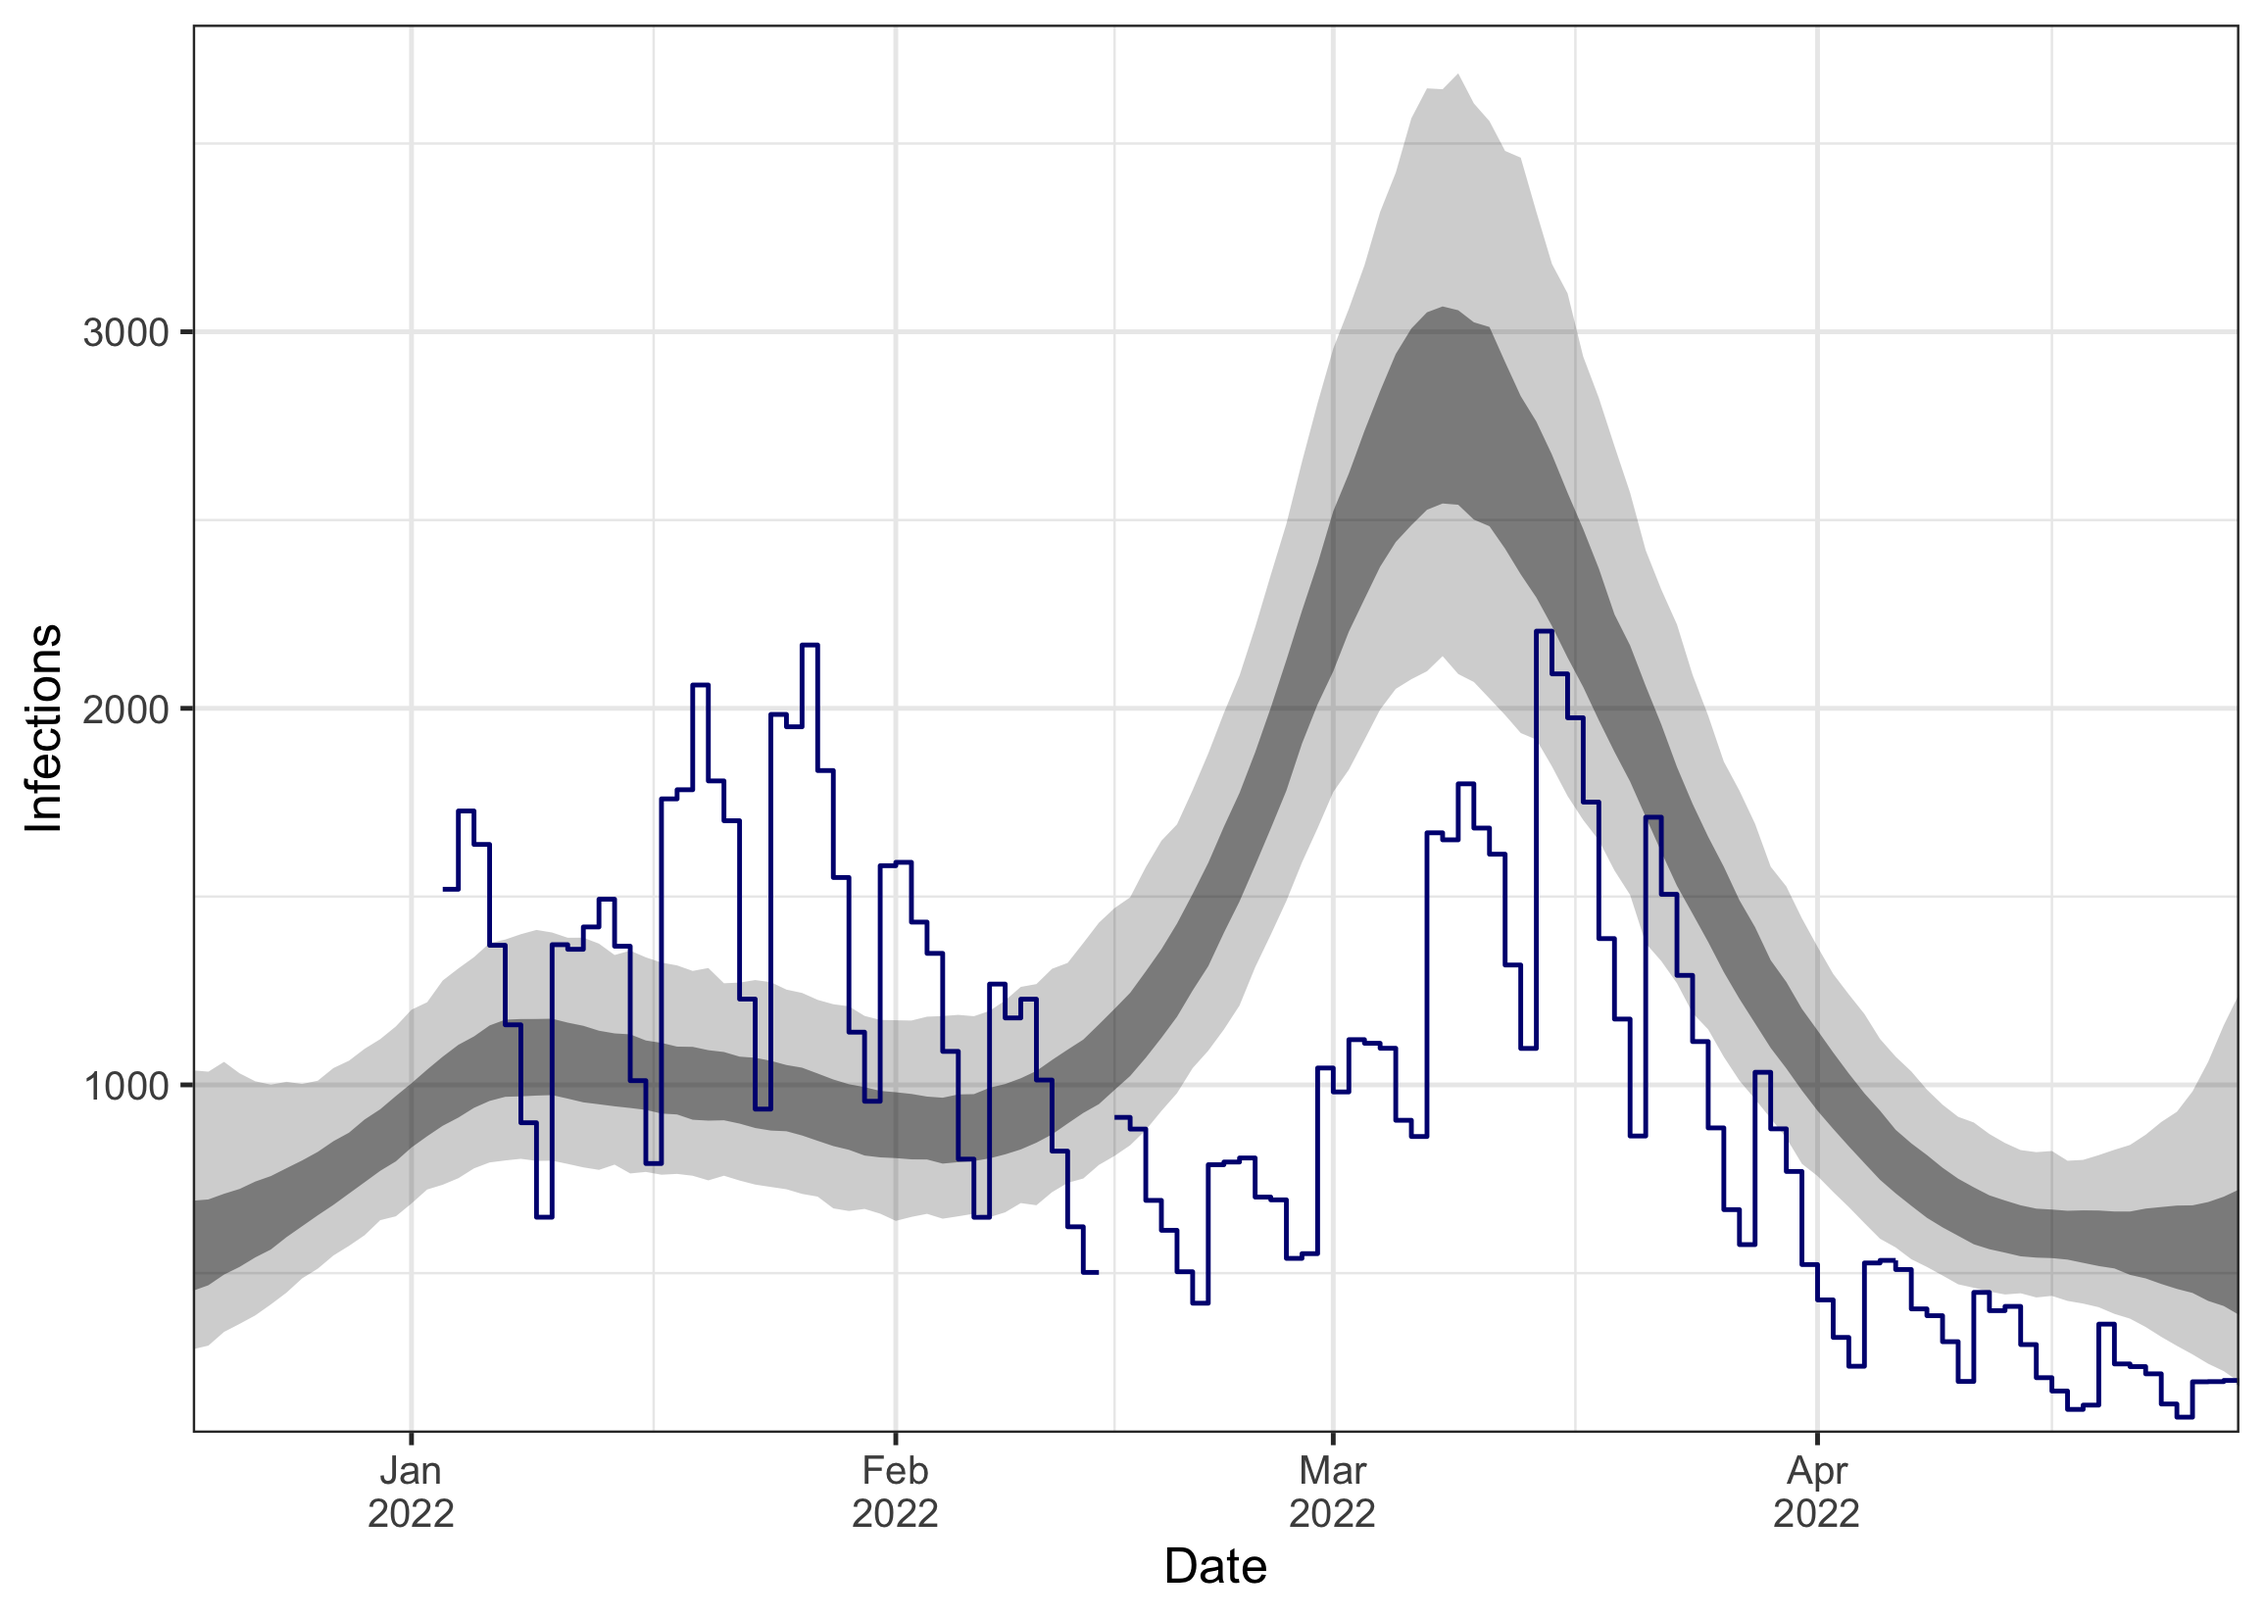
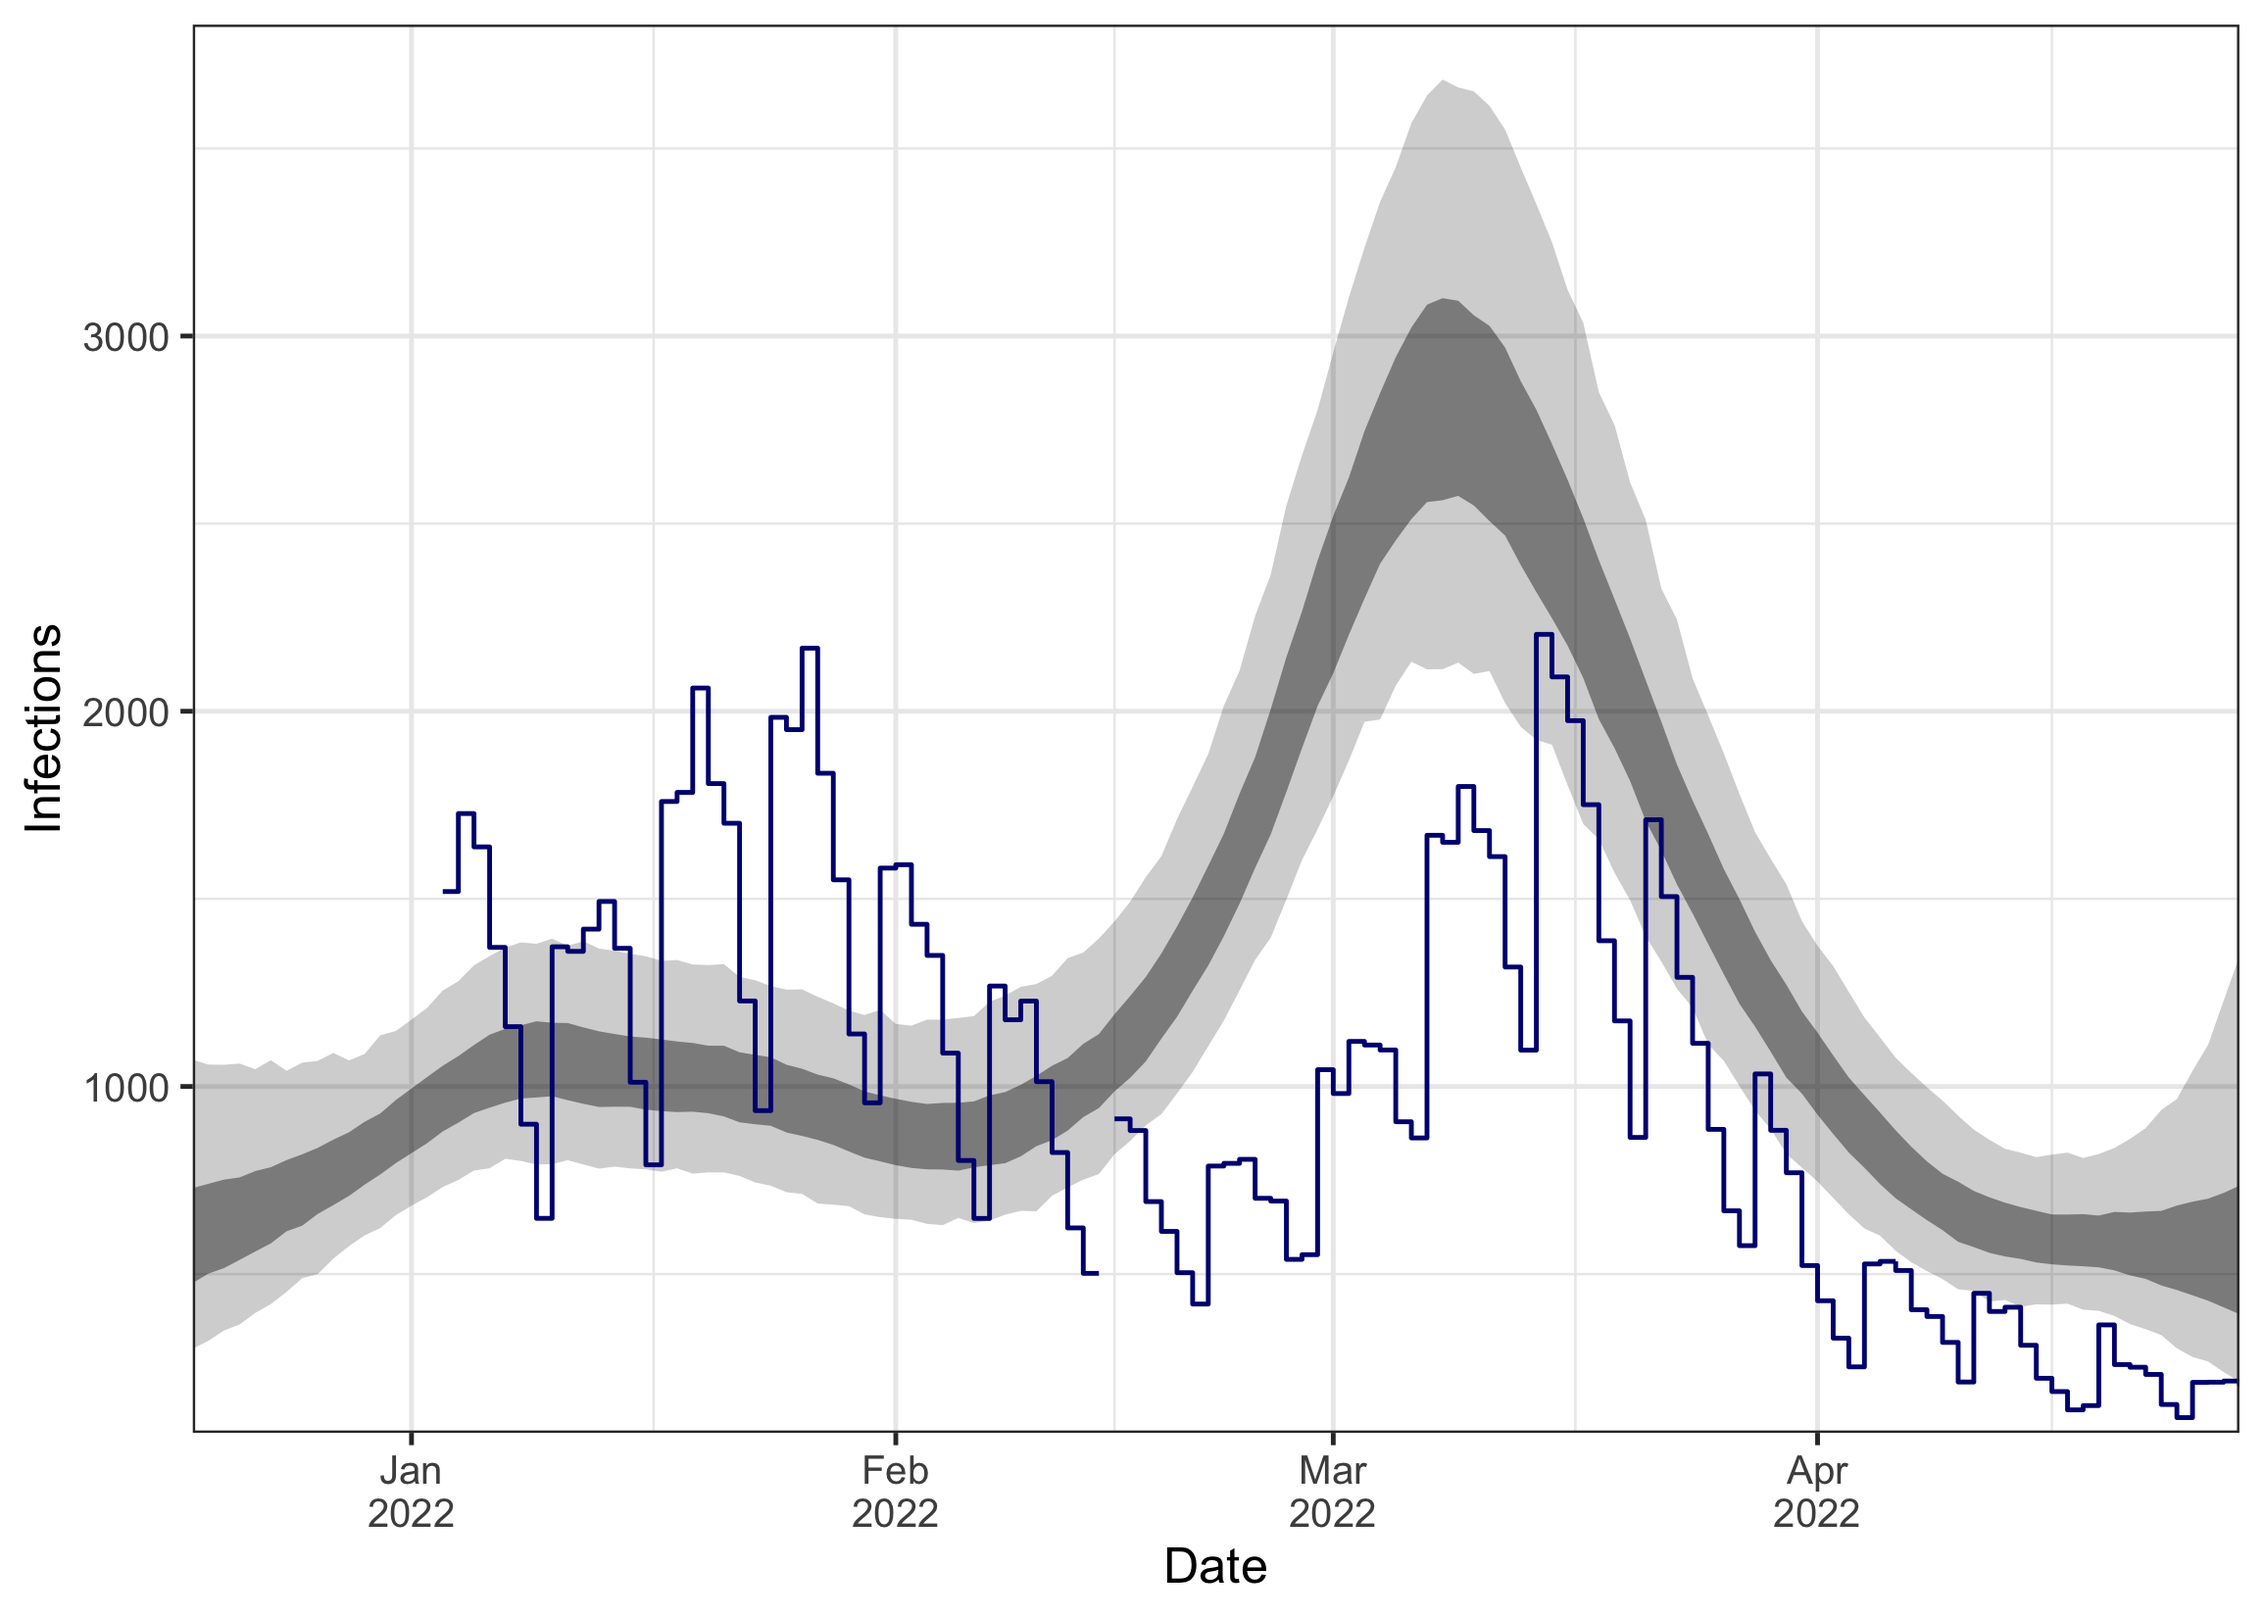
Update README and vignettes

diff --git a/README.md b/README.md
@@ -36,6 +36,7 @@ configurable modeling components.
 ⭐ Limit of detection (LOD) model
 
 **Sampling**  
+⭐ Integrated outlier detection  
 ⭐ Sample batch effects (e.g. weekday or age-of-sample effects)
 
 **Sewer**  
@@ -502,6 +503,7 @@ ww_result$job$model
 #>  |- LOD_none
 #> 
 #> sampling
+#>  |- outliers_none
 #>  |- sample_effects_none
 #> 
 #> sewage
@@ -547,11 +549,11 @@ number.
 ``` r
 head(ww_result$summary$R, 5)
 #>          date     mean   median lower_0.95 lower_0.5 upper_0.5 upper_0.95
-#> 1: 2021-12-03 1.042238 1.044795  0.7012397 0.9294330  1.157058   1.365061
-#> 2: 2021-12-04 1.043177 1.044975  0.7155260 0.9338175  1.155830   1.355124
-#> 3: 2021-12-05 1.044297 1.045450  0.7303710 0.9367903  1.154685   1.346828
-#> 4: 2021-12-06 1.045626 1.045795  0.7430955 0.9419335  1.152473   1.342926
-#> 5: 2021-12-07 1.047189 1.046505  0.7521539 0.9480593  1.147990   1.336999
+#> 1: 2021-12-03 1.036807 1.035745  0.6965128 0.9325218  1.135077   1.380163
+#> 2: 2021-12-04 1.037644 1.036200  0.7072554 0.9352365  1.131915   1.375141
+#> 3: 2021-12-05 1.038698 1.035635  0.7225687 0.9409083  1.130870   1.360814
+#> 4: 2021-12-06 1.039966 1.037090  0.7374740 0.9479347  1.126985   1.354385
+#> 5: 2021-12-07 1.041443 1.038955  0.7485678 0.9517000  1.126372   1.344230
 #>        type seeding
 #> 1: estimate    TRUE
 #> 2: estimate    TRUE
@@ -575,7 +577,7 @@ ww_result$fitted$diagnostic_summary()
 #> [1] 0 0 0 0
 #> 
 #> $ebfmi
-#> [1] 0.9014503 0.9680378 0.9334176 0.9486877
+#> [1] 0.9634045 0.9527539 1.0770535 1.0579167
 ```
 
 Finally, the `checksums` attribute gives us several checksums that
@@ -587,10 +589,10 @@ is not `NULL`), then the results should also be identical.
 ``` r
 ww_result$checksums
 #> $model
-#> [1] "6346549bd7c2ac9a9d200503d7356a29"
+#> [1] "9ab6b8f9db0836e27cf9e9ac6ab1ea02"
 #> 
 #> $input
-#> [1] "c6dad2f8ed2b6fdaf952926f3eb3e97d"
+#> [1] "c5d9acd8e8877d4ffbb24019996c07f9"
 #> 
 #> $fit_opts
 #> [1] "5309bbbc3cd1cc109eac60d2fc82de45"
@@ -599,7 +601,7 @@ ww_result$checksums
 #> [1] "e92f83d0ca5d22b3bb5849d62c5412ee"
 #> 
 #> $init
-#> [1] "82126b86311c9716bda5d21c04c52142"
+#> [1] "4329118480e9cb86b22d61c739d8c77e"
 ```
 
 ## Citing the package

diff --git a/vignettes/detailed-example.md b/vignettes/detailed-example.md
@@ -155,15 +155,18 @@ the wastewater:
 
 ``` r
 ww_sampling <- model_sampling(
+  outliers = outliers_none(),
   sample_effects = sample_effects_none()
 )
 ```
 
-The sampling module currently has only one component, which allows to
-model the effects of sample characteristics (like time from sampling
-until processing, which can lead to degradation) on the detectable
-pathogen concentrations. In this simple example, we do not model such
-effects.
+The sampling module currently has two component. The outlier component
+allows to automatically detect outlier observations during model
+fitting, making transmission dynamic estimates more robust. The sample
+effects component allows to model the effects of sample characteristics
+(like time from sampling until processing, which can lead to
+degradation) on the detectable pathogen concentrations. In this simple
+example, we do not model outliers or sampling effects.
 
 #### Sewage
 
@@ -384,6 +387,7 @@ ww_result$job$model
 #>  |- LOD_none
 #> 
 #> sampling
+#>  |- outliers_none
 #>  |- sample_effects_none
 #> 
 #> sewage
@@ -427,6 +431,7 @@ ww_measurements <- model_measurements(
 )
 
 ww_sampling <- model_sampling(
+  outliers = outliers_none(),
   sample_effects = sample_effects_none()
 )
 
